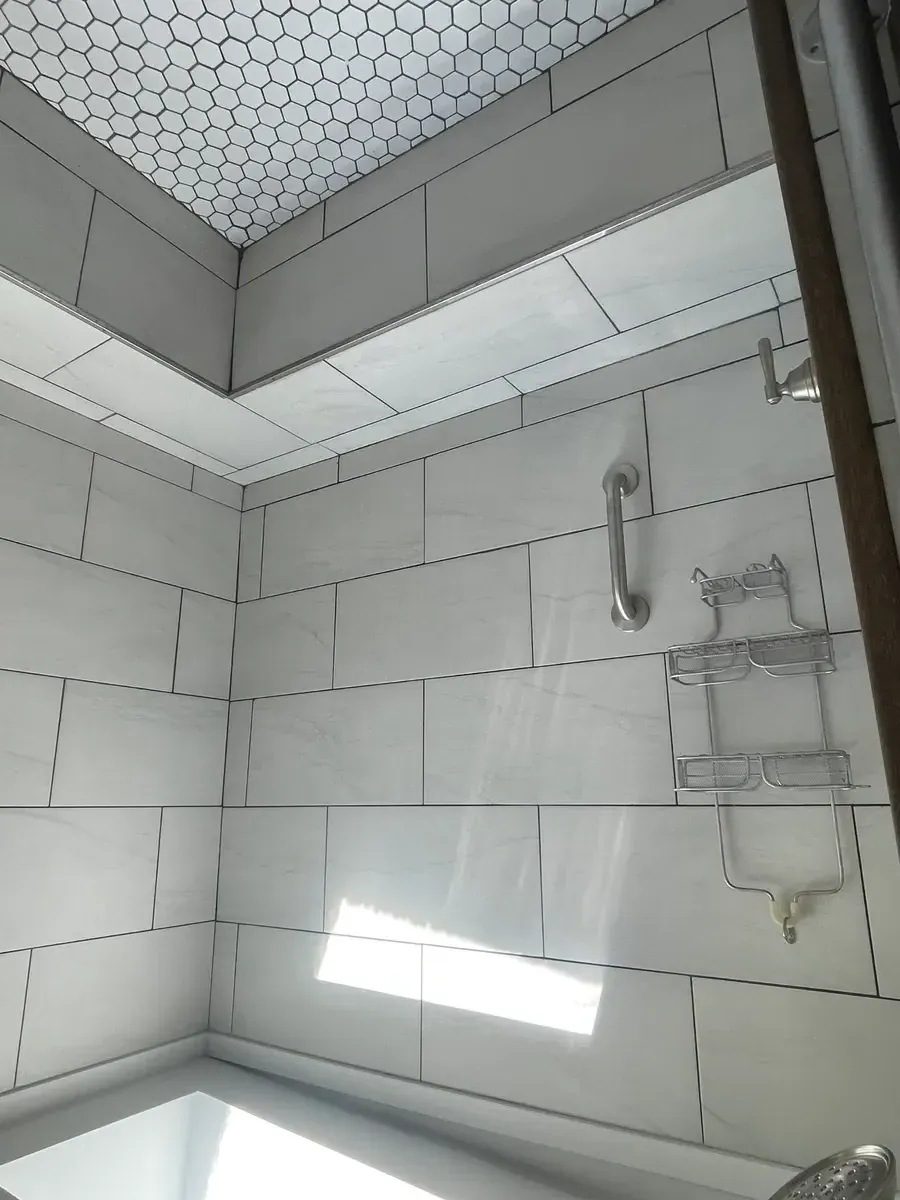
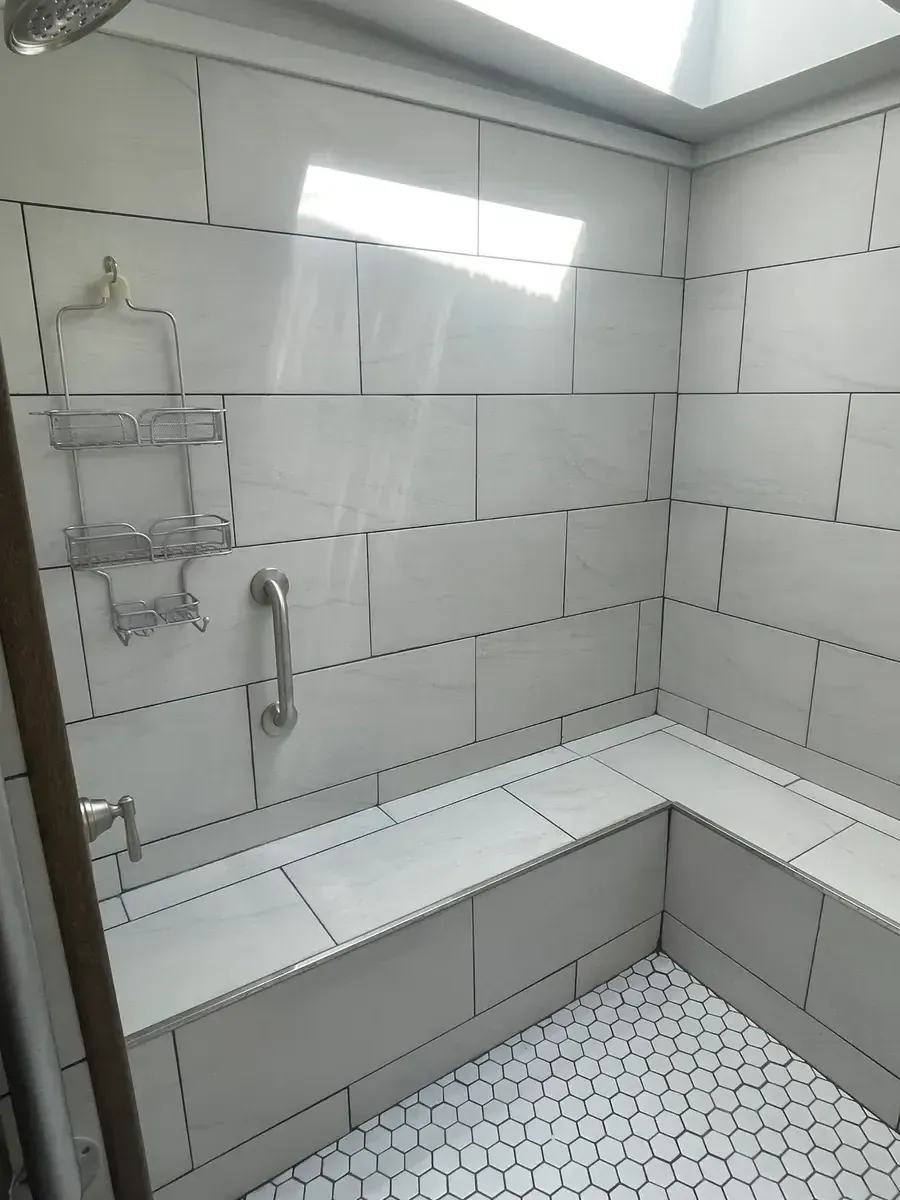
Fix upside-down shower tile images and change Riddle to Roseburg
- Rotated interior-shower-tile images to correct orientation
- Changed "Rooted in Riddle, Oregon" to "Rooted in Roseburg, Oregon" on homepage

diff --git a/src/app/page.tsx b/src/app/page.tsx
@@ -167,7 +167,7 @@ export default function Home() {
               />
             </div>
             <div>
-              <SectionHeading label="About Us" heading="Rooted in Riddle, Oregon" />
+              <SectionHeading label="About Us" heading="Rooted in Roseburg, Oregon" />
               <p className="mt-8 text-text-secondary text-base leading-relaxed">
                 Blacktail Builders LLC was founded by a craftsman whose career
                 was shaped building award-winning custom homes in Montana. That
